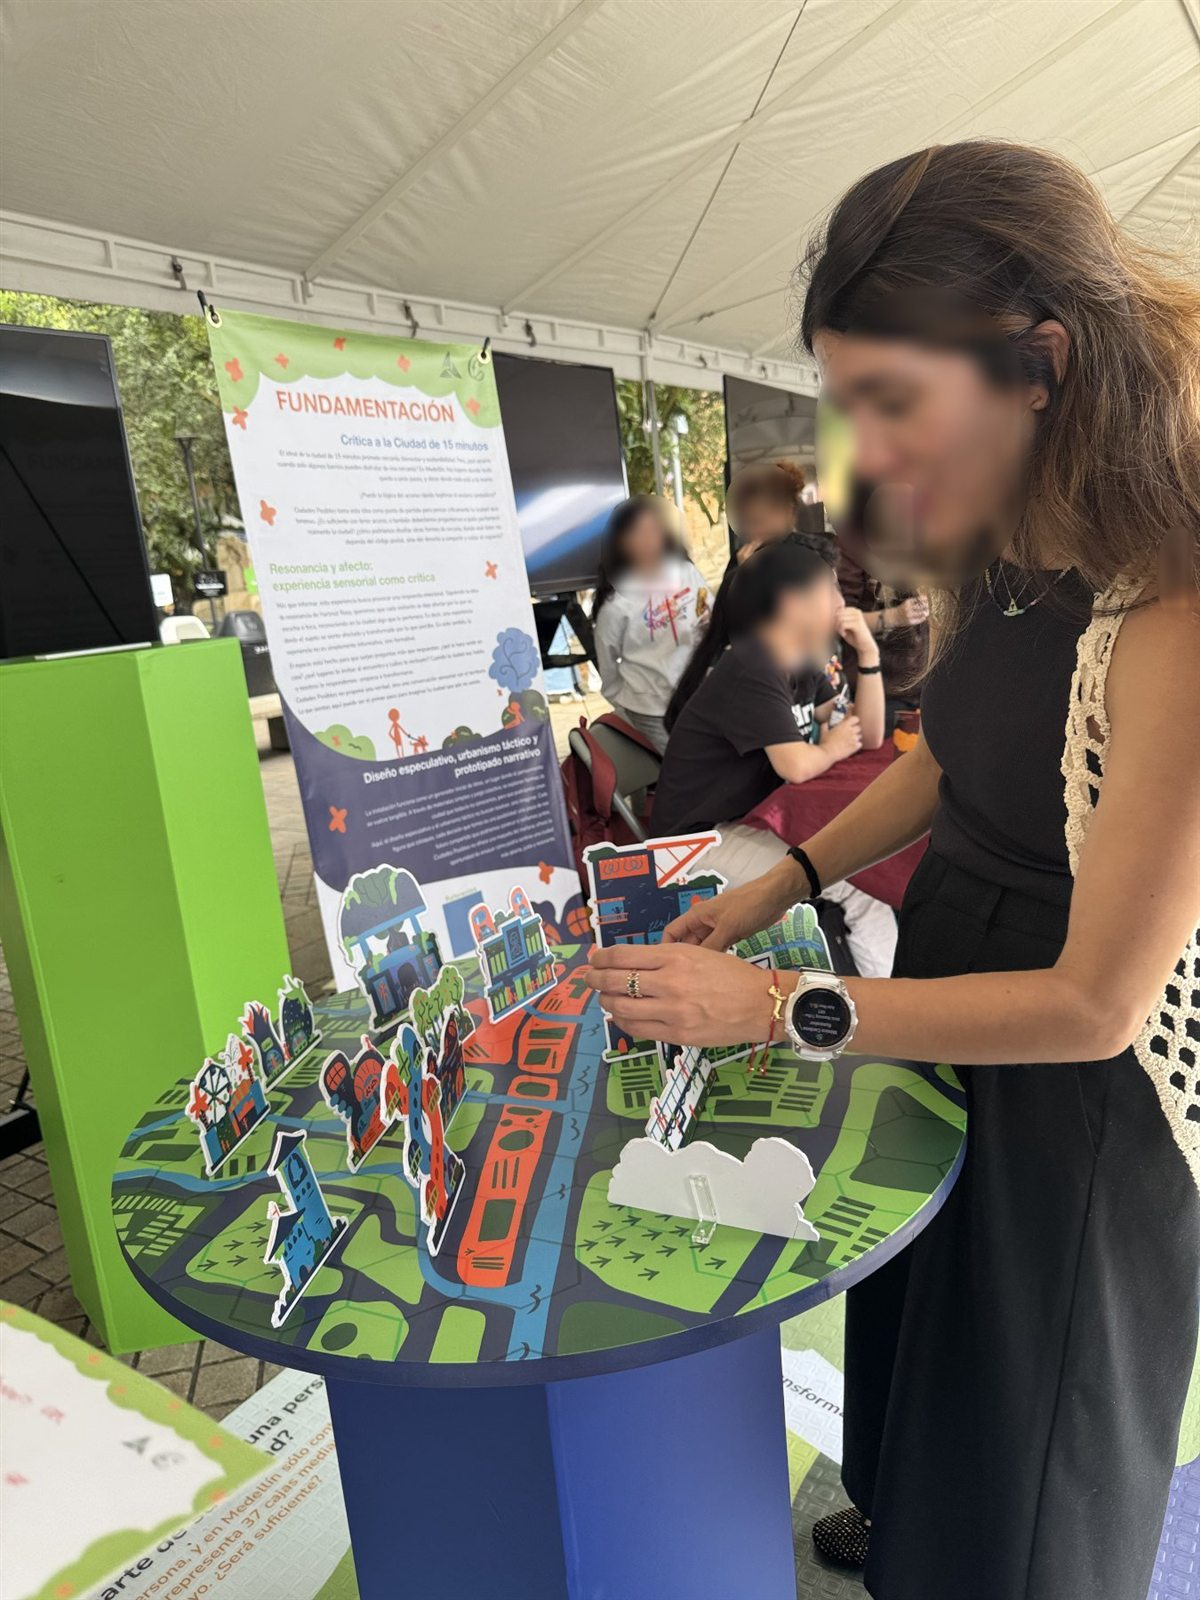
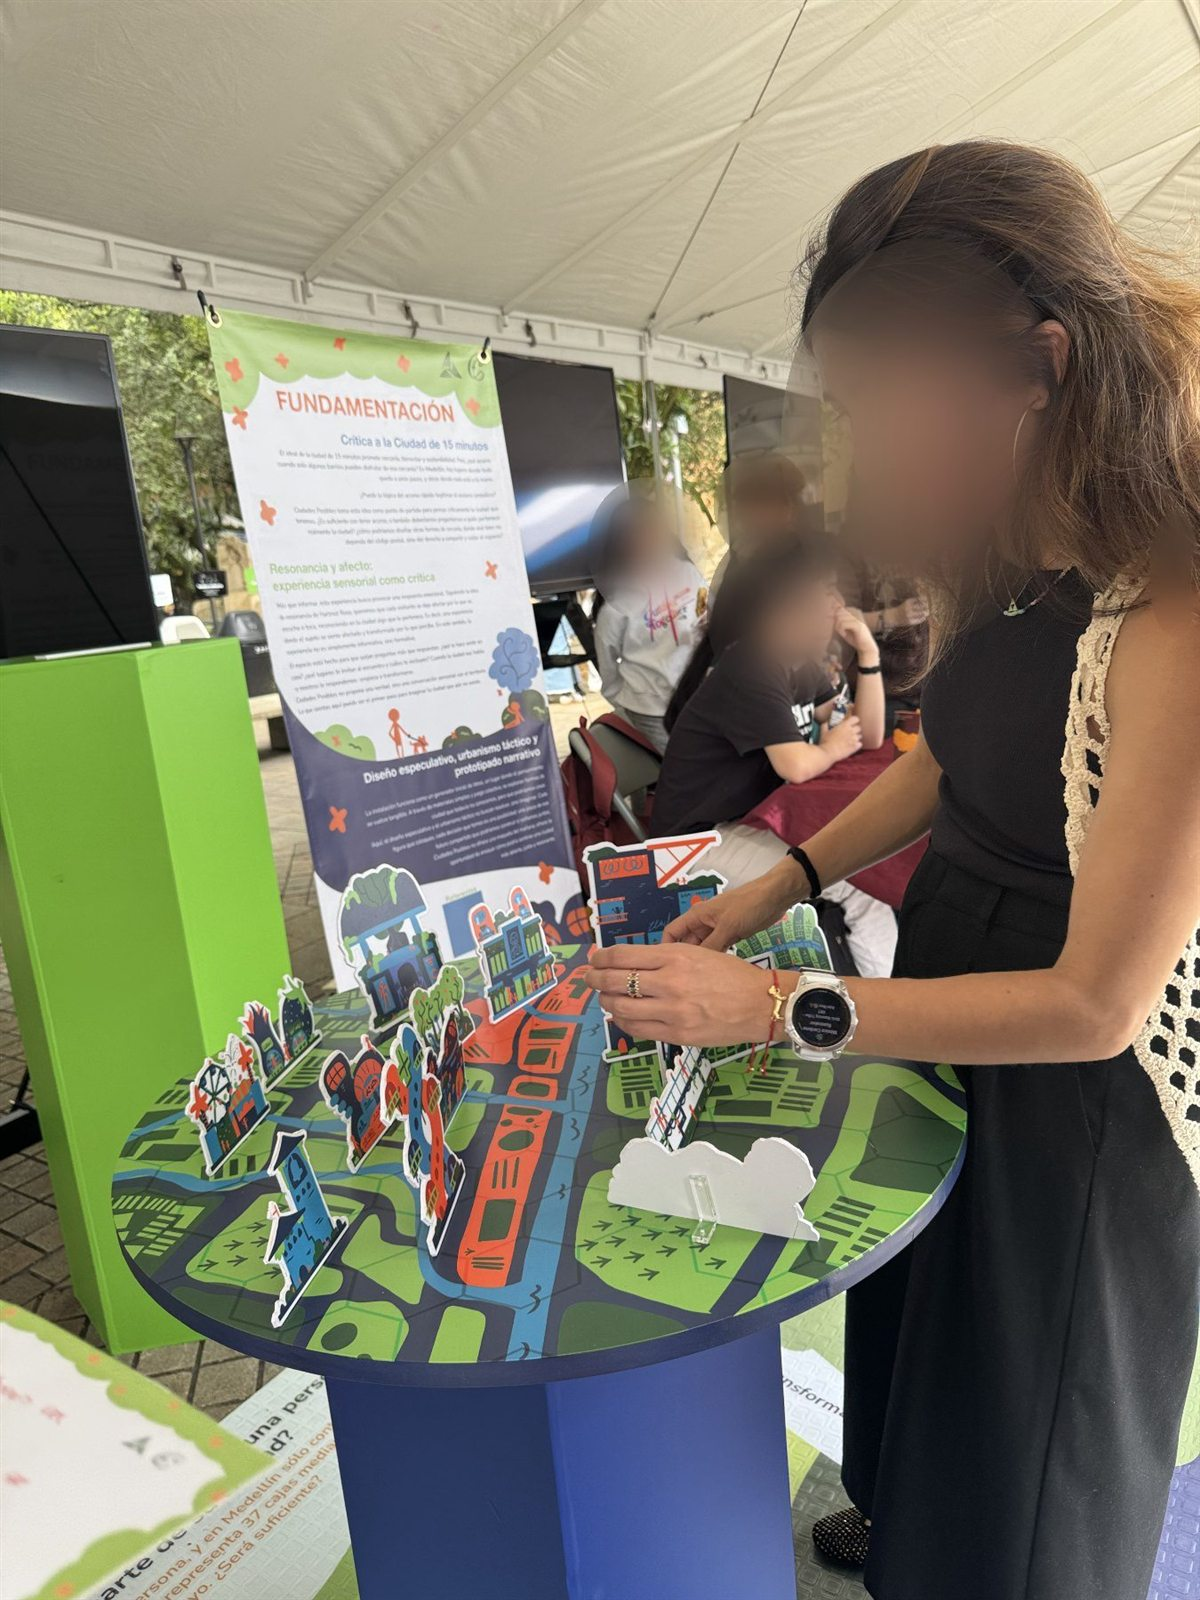
Crop handwritten notes, careful-AI note, stronger face blur, drop 2023 article link, restore SIATA hook

Changed region(s): [[0.4933, 0.1562, 0.8633, 0.4375], [0.8633, 0.25, 0.8942, 0.2812]]

diff --git a/project-consumer-behaviour.html b/project-consumer-behaviour.html
@@ -121,6 +121,7 @@
             <li>Analysed the answers with the course's concepts and wrote the profile and the recommendations.</li>
             <li>Prepared the oral justification. I used AI to help synthesise my findings from the tutorials into the marketing mix, then rewrote it by hand in my own words to check I understood every recommendation. The oral discussion went well.</li>
             <li>Used AI to help organise the written data, edit my first sketches and format the report. The consumer data, answers and analytical judgements are my own, and the report says so.</li>
+            <li>I used AI carefully, especially when it helped me write. Every time, I checked that the text was coherent, that it rested on real theories from the course, and that the sources were correct, confirming each one against the original.</li>
           </ul>
         </div>
       </section>
@@ -261,7 +262,7 @@
         <a data-stage="Middle" href="assets/consumer-behaviour/02-report-perception.jpg" target="_blank" rel="noopener"><img src="assets/consumer-behaviour/02-report-perception.jpg" alt="Report page on perception: visual-first processing through the decision journey, and a table rating four brands on visual design and functional performance." width="1102" height="1426" loading="lazy" /></a>
         <a data-stage="Middle" href="assets/consumer-behaviour/03-report-brand-personality.jpg" target="_blank" rel="noopener"><img src="assets/consumer-behaviour/03-report-brand-personality.jpg" alt="Report page on brand personality: a table comparing the brand with the consumer's self-image on five dimensions, and the finding that her loyalty does not come from self-congruence." width="1102" height="1426" loading="lazy" /></a>
         <a data-stage="End" href="assets/consumer-behaviour/04-report-recommendations.jpg" target="_blank" rel="noopener"><img src="assets/consumer-behaviour/04-report-recommendations.jpg" alt="Report page of recommendations for product, price and place, each tied to the finding that justifies it." width="1102" height="1426" loading="lazy" /></a>
-<a data-stage="End" href="assets/consumer-behaviour/05-consumer-persona.jpg" target="_blank" rel="noopener"><img src="assets/consumer-behaviour/05-consumer-persona.jpg" alt="The consumer persona I designed: age, a short quote, motivations, her preferred brand and why she is loyal to it, her pain points and her Big Five personality scores. Her location and occupation are hidden." width="1264" height="714" loading="lazy" /></a>        <a data-stage="End" href="assets/consumer-behaviour/06-handwritten-marketing-mix-1.jpg" target="_blank" rel="noopener"><img src="assets/consumer-behaviour/06-handwritten-marketing-mix-1.jpg" alt="My handwritten notes for the oral: the marketing mix for Ryegraz, starting with the product and three findings, including that her loyalty is functional, not identity-based." width="577" height="1280" loading="lazy" /></a>        <a data-stage="End" href="assets/consumer-behaviour/07-handwritten-marketing-mix-2.jpg" target="_blank" rel="noopener"><img src="assets/consumer-behaviour/07-handwritten-marketing-mix-2.jpg" alt="My handwritten notes, product and price: the non-compensatory rule and the NZ$259 price below her stated maximum." width="577" height="1280" loading="lazy" /></a>        <a data-stage="End" href="assets/consumer-behaviour/08-handwritten-marketing-mix-3.jpg" target="_blank" rel="noopener"><img src="assets/consumer-behaviour/08-handwritten-marketing-mix-3.jpg" alt="My handwritten notes, place and promotion: physical retail first, and a sampling-led launch based on how her loyalty to the first brand was built." width="577" height="1280" loading="lazy" /></a>
+<a data-stage="End" href="assets/consumer-behaviour/05-consumer-persona.jpg" target="_blank" rel="noopener"><img src="assets/consumer-behaviour/05-consumer-persona.jpg" alt="The consumer persona I designed: age, a short quote, motivations, her preferred brand and why she is loyal to it, her pain points and her Big Five personality scores. Her location and occupation are hidden." width="1264" height="714" loading="lazy" /></a>        <a data-stage="End" href="assets/consumer-behaviour/06-handwritten-marketing-mix-1.jpg" target="_blank" rel="noopener"><img src="assets/consumer-behaviour/06-handwritten-marketing-mix-1.jpg" alt="My handwritten notes for the oral: the marketing mix for Ryegraz, starting with the product and three findings, including that her loyalty is functional, not identity-based." width="530" height="740" loading="lazy" /></a>        <a data-stage="End" href="assets/consumer-behaviour/07-handwritten-marketing-mix-2.jpg" target="_blank" rel="noopener"><img src="assets/consumer-behaviour/07-handwritten-marketing-mix-2.jpg" alt="My handwritten notes, product and price: the non-compensatory rule and the NZ$259 price below her stated maximum." width="577" height="772" loading="lazy" /></a>        <a data-stage="End" href="assets/consumer-behaviour/08-handwritten-marketing-mix-3.jpg" target="_blank" rel="noopener"><img src="assets/consumer-behaviour/08-handwritten-marketing-mix-3.jpg" alt="My handwritten notes, place and promotion: physical retail first, and a sampling-led launch based on how her loyalty to the first brand was built." width="484" height="700" loading="lazy" /></a>
       </div>
 
     </article>

diff --git a/project-vr-emotion-research.html b/project-vr-emotion-research.html
@@ -118,7 +118,8 @@
             teacher and the seedbed was to research haptics and learn how
             touch relates to emotion. I learnt how the haptics could be
             implemented and why they matter for the experience, but I did
-            not implement them in the project itself. After that I worked and developed in the project: I built the
+            not implement them in the project itself: I thought I would have
+            more time. After that I worked and developed in the project: I built the
             onboarding tutorial and the emotion questionnaire.
           </p>
         </div>
@@ -156,10 +157,8 @@
               rather than a happy one.
             </p>
             <p>
-              The studies I worked from:
-              <a href="https://drive.google.com/file/d/1G7bGfotGdWFp-xg6vwn8nZvLS3xGIw8_/view?usp=sharing" target="_blank" rel="noopener">Haptic Vibrations in Emotion Induction and Regulation, 2025 (PDF) ↗</a>
-              and
-              <a href="https://doi.org/10.3389/frvir.2023.1242587" target="_blank" rel="noopener">Haptic feedback in a virtual crowd scenario improves the emotional response, Venkatesan et al., 2023 ↗</a>.
+              The study I worked from:
+              <a href="https://drive.google.com/file/d/1G7bGfotGdWFp-xg6vwn8nZvLS3xGIw8_/view?usp=sharing" target="_blank" rel="noopener">Haptic Vibrations in Emotion Induction and Regulation, 2025 (PDF) ↗</a>.
             </p>
           </div>
         </details>

diff --git a/index.html b/index.html
@@ -313,7 +313,7 @@
                 <div class="pcard__media"><img src="assets/cards/siata.jpg" alt="Prototype map screen with an active-layers panel to switch rain, air quality and river level on and off." loading="lazy" decoding="async" draggable="false" style="object-position: 50% 62%" /><span class="pcard__pill">Featured</span></div>
                 <div class="pcard__body">
                   <h3 class="pcard__title">SIATA Geoportal Ciudadanos</h3>
-                  <p class="pcard__hook">Search "siata" and you land on the technical site, not the citizen portal.</p>
+                  <p class="pcard__hook">Most people don't even know this citizen weather portal exists.</p>
                   <p class="pcard__brief">Five of us redesigned Medellín's weather-and-risk portal. I ran the interviews and built the working prototype.</p>
                 </div>
                 <div class="pcard__skills" aria-label="Main skills">
